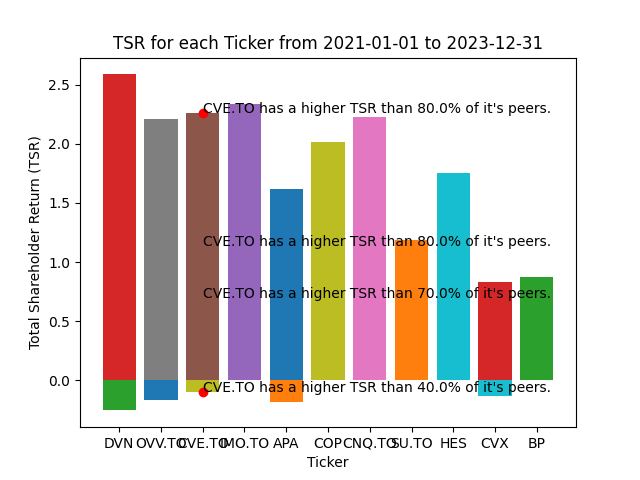
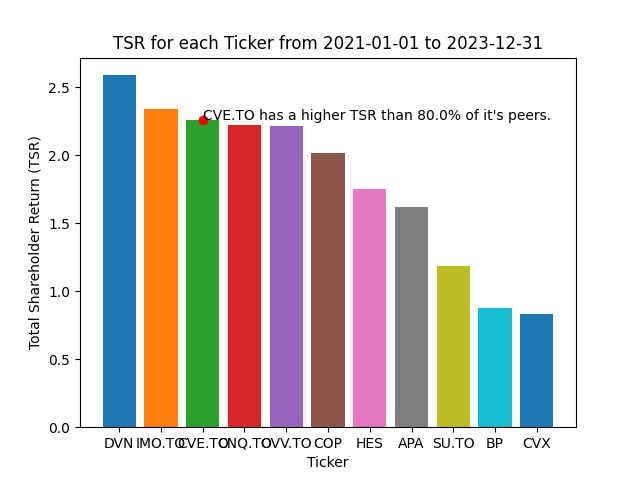
Reset the chart after each iteration

diff --git a/RankTSR.py b/RankTSR.py
@@ -1,6 +1,6 @@
 """
 For each ticker in the list of tickers:
-- Download the daily price data 
+- Download the daily price data
 - Calulate the Typical Price and VWAP
 - Download the dividends issued
 - Calculate the Total Shareholder Return (TSR)
@@ -92,7 +92,7 @@ if __name__ == "__main__":
                 ['2022',
                     datetime(2022, 1, 1, 12, 0, 0, tzinfo=pytz.timezone('America/New_York')),
                     datetime(2022, 12, 31, 12, 0, 0, tzinfo=pytz.timezone('America/New_York'))],
-                ['2023', 
+                ['2023',
                     datetime(2023, 1, 1, 12, 0, 0, tzinfo=pytz.timezone('America/New_York')),
                     datetime(2023, 12, 31, 12, 0, 0, tzinfo=pytz.timezone('America/New_York'))],
                 ['2021-2023',
@@ -168,3 +168,5 @@ if __name__ == "__main__":
         # save the chart to a file
         plt.savefig('tsr_chart_' + tsr_period[0] + '.png')
         # plt.show()
+        # clear the plot
+        plt.clf()
